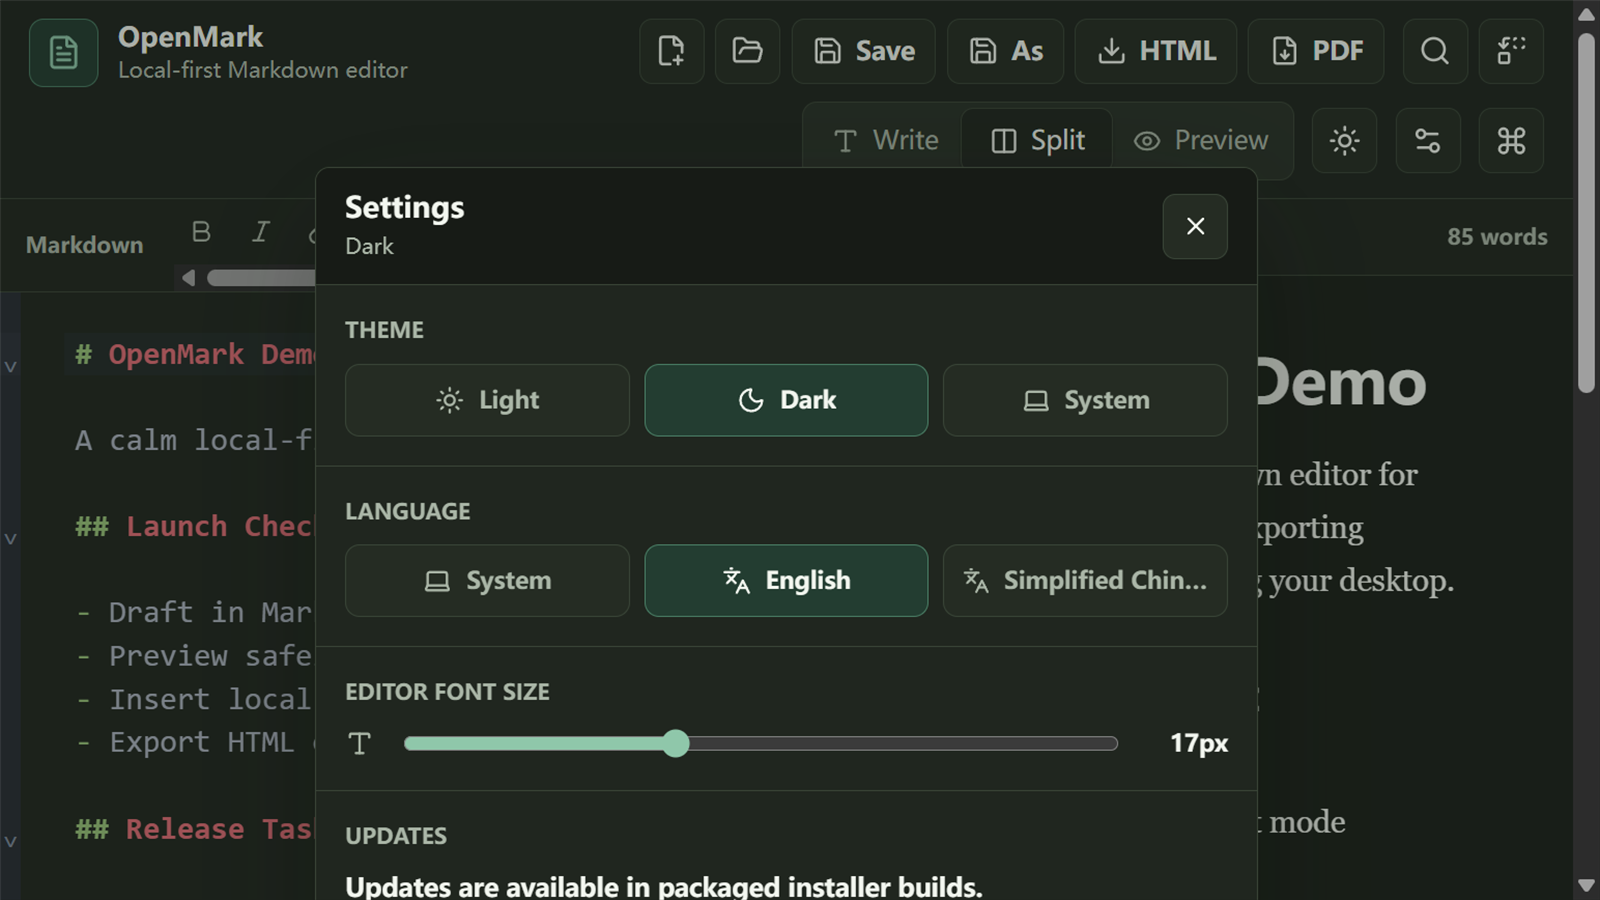
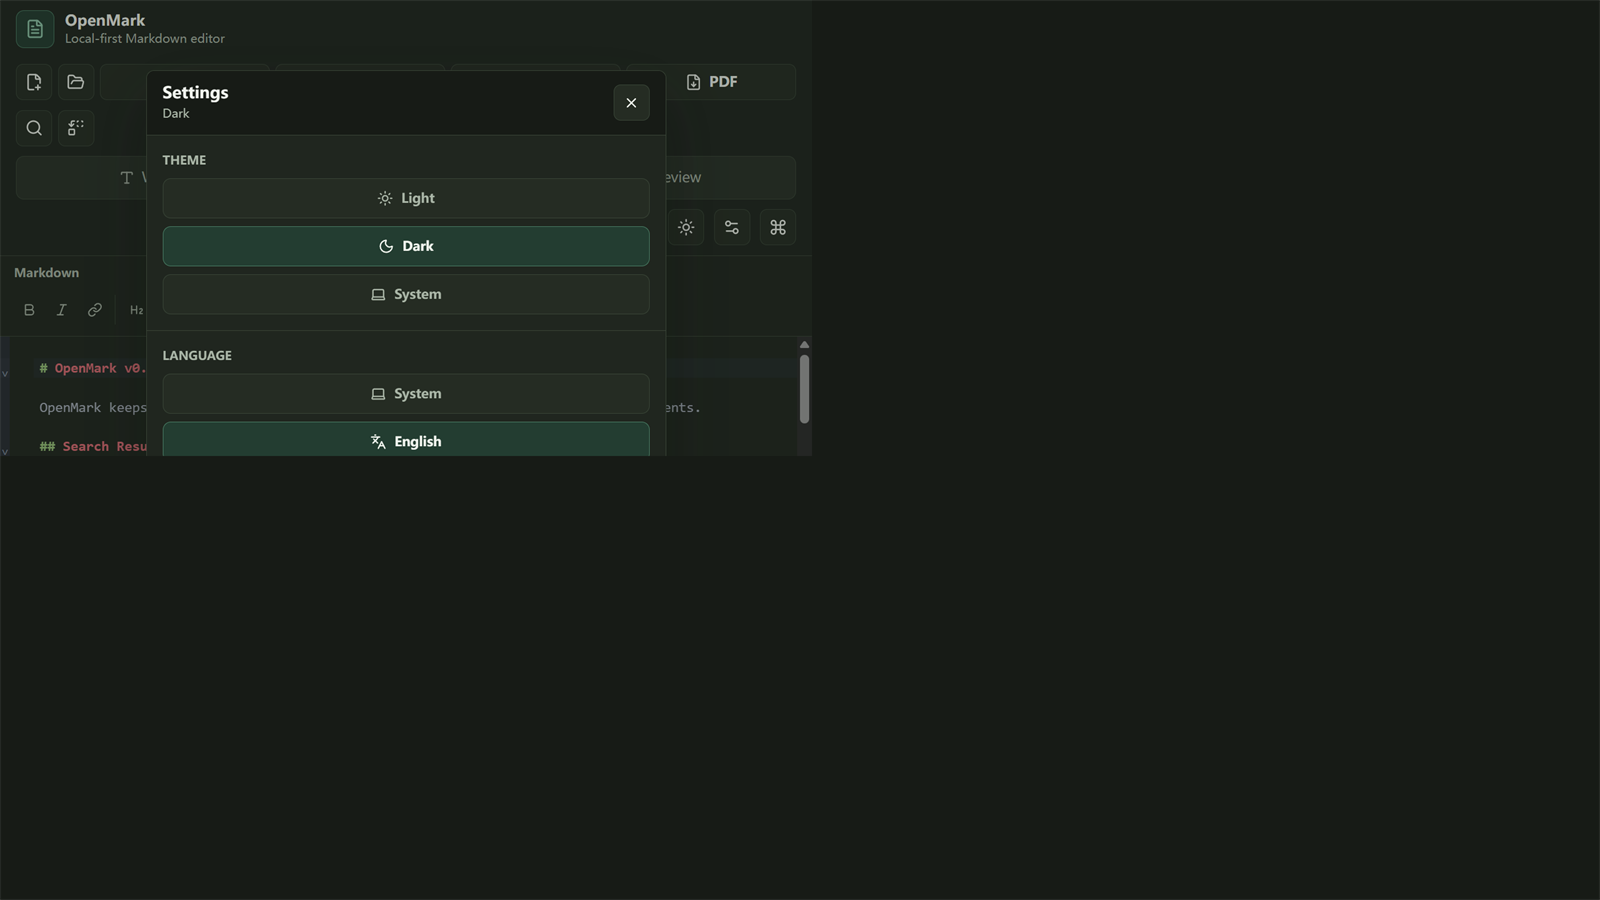
Prepare v0.5.0 release notes and screenshots

diff --git a/src/App.tsx b/src/App.tsx
@@ -220,7 +220,7 @@ const localeOptions: Array<{
 const defaultUpdateStatus: OpenMarkUpdateStatus = {
   state: 'unsupported',
   message: '',
-  version: '0.4.0',
+  version: '0.5.0',
   updateVersion: null,
   progress: null,
   canCheck: false,

diff --git a/docs/release.md b/docs/release.md
@@ -26,20 +26,20 @@ Windows artifacts are unsigned unless a signing certificate is provided through 
 
 Expected Windows artifacts:
 
-- `OpenMark.Setup.0.4.0.exe`
-- `OpenMark.0.4.0.exe`
-- `OpenMark.Setup.0.4.0.exe.blockmap`
+- `OpenMark.Setup.0.5.0.exe`
+- `OpenMark.0.5.0.exe`
+- `OpenMark.Setup.0.5.0.exe.blockmap`
 
 Expected macOS artifacts:
 
-- `OpenMark-0.4.0.dmg`
-- `OpenMark-0.4.0-arm64.dmg`
-- `OpenMark-0.4.0-mac.zip`
-- `OpenMark-0.4.0-arm64-mac.zip`
+- `OpenMark-0.5.0.dmg`
+- `OpenMark-0.5.0-arm64.dmg`
+- `OpenMark-0.5.0-mac.zip`
+- `OpenMark-0.5.0-arm64-mac.zip`
 
 Expected Linux artifacts:
 
-- `openmark-editor_0.4.0_amd64.deb`
+- `openmark-editor_0.5.0_amd64.deb`
 
 ## Automated GitHub Release
 
@@ -54,8 +54,8 @@ Release uploads include Electron auto-update metadata files such as `latest.yml`
 Push a version tag that starts with `v`:
 
 ```bash
-git tag v0.4.0
-git push origin v0.4.0
+git tag v0.5.0
+git push origin v0.5.0
 ```
 
 The workflow publishes the GitHub release automatically and asks GitHub to generate release notes.
@@ -65,9 +65,9 @@ The workflow publishes the GitHub release automatically and asks GitHub to gener
 Use the **Release** workflow from the Actions page when you need a manual build or draft release.
 
 - Leave `tag` empty to build and upload Windows, macOS, and Linux artifacts only.
-- Enter a tag like `v0.4.0` to publish a GitHub release from the workflow run. The tag is validated as semantic version style and points at the workflow commit.
+- Enter a tag like `v0.5.0` to publish a GitHub release from the workflow run. The tag is validated as semantic version style and points at the workflow commit.
 - Manual releases default to draft mode so artifacts and notes can be reviewed before publishing.
-- Enable `prerelease` for preview builds such as `v0.4.0-beta.1`.
+- Enable `prerelease` for preview builds such as `v0.5.0-beta.1`.
 
 Draft notes should start from [.github/RELEASE_TEMPLATE/release-notes.md](../.github/RELEASE_TEMPLATE/release-notes.md), then link to the [Download Guide](download.md) for package-selection details.
 

diff --git a/.github/RELEASE_TEMPLATE/release-notes.md b/.github/RELEASE_TEMPLATE/release-notes.md
@@ -2,17 +2,18 @@
 
 ## Summary
 
-- One or two sentences describing who should upgrade and why.
+OpenMark 0.5.0 focuses on navigation inside longer Markdown documents. Upgrade for search results with context, preview-to-editor heading jumps, split-view scroll synchronization, and contextual table editing controls.
 
 ## Highlights
 
-- User-facing improvement 1.
-- User-facing improvement 2.
-- User-facing improvement 3.
+- Search results now show line numbers and context snippets, and each result jumps directly to the editor selection.
+- Split mode keeps the Markdown editor and rendered preview aligned as either side scrolls.
+- Preview headings can be clicked or keyboard-activated to jump back to their source line in the editor.
+- Markdown tables can be formatted in place, with controls for adding/deleting rows and columns when the cursor is inside a table.
 
 ## Fixes
 
-- Bug fix or stability improvement.
+- Long documents now scroll inside the editor and preview panes instead of stretching the full app shell.
 
 ## Downloads
 
@@ -20,11 +21,11 @@ Choose the package for your operating system from the assets below.
 
 | Platform | Asset | Notes |
 | --- | --- | --- |
-| Windows | `OpenMark.Setup.<version>.exe` | Recommended installer. |
-| Windows | `OpenMark.<version>.exe` | Portable app. |
-| macOS Intel | `OpenMark-<version>.dmg` | Unsigned/not notarized for now. |
-| macOS Apple Silicon | `OpenMark-<version>-arm64.dmg` | Unsigned/not notarized for now. |
-| Linux Debian/Ubuntu | `openmark-editor_<version>_amd64.deb` | System package install. |
+| Windows | `OpenMark.Setup.0.5.0.exe` | Recommended installer. |
+| Windows | `OpenMark.0.5.0.exe` | Portable app. |
+| macOS Intel | `OpenMark-0.5.0.dmg` | Unsigned/not notarized for now. |
+| macOS Apple Silicon | `OpenMark-0.5.0-arm64.dmg` | Unsigned/not notarized for now. |
+| Linux Debian/Ubuntu | `openmark-editor_0.5.0_amd64.deb` | System package install. |
 
 Keep these auto-update metadata files attached when generated:
 

diff --git a/docs/download.md b/docs/download.md
@@ -12,11 +12,11 @@ Get the latest desktop build from the [GitHub Releases page](https://github.com/
 
 | Platform | Recommended package | Notes |
 | --- | --- | --- |
-| Windows | `OpenMark.Setup.0.4.0.exe` | Installer build with desktop/start menu shortcuts and update support. |
-| Windows | `OpenMark.0.4.0.exe` | Portable build for trying OpenMark without installation. |
-| macOS | `OpenMark-0.4.0.dmg` | Intel Mac disk image. Currently unsigned and not notarized. |
-| macOS | `OpenMark-0.4.0-arm64.dmg` | Apple Silicon disk image. Currently unsigned and not notarized. |
-| Linux | `openmark-editor_0.4.0_amd64.deb` | Debian/Ubuntu package managed through the system package installer. |
+| Windows | `OpenMark.Setup.0.5.0.exe` | Installer build with desktop/start menu shortcuts and update support. |
+| Windows | `OpenMark.0.5.0.exe` | Portable build for trying OpenMark without installation. |
+| macOS | `OpenMark-0.5.0.dmg` | Intel Mac disk image. Currently unsigned and not notarized. |
+| macOS | `OpenMark-0.5.0-arm64.dmg` | Apple Silicon disk image. Currently unsigned and not notarized. |
+| Linux | `openmark-editor_0.5.0_amd64.deb` | Debian/Ubuntu package managed through the system package installer. |
 
 ## Before Installing
 
@@ -48,11 +48,11 @@ Release maintainers should verify these before publishing a non-draft release:
 
 | 平台 | 推荐安装包 | 说明 |
 | --- | --- | --- |
-| Windows | `OpenMark.Setup.0.4.0.exe` | 安装版，包含桌面/开始菜单快捷方式和更新支持。 |
-| Windows | `OpenMark.0.4.0.exe` | 便携版，适合不安装直接试用。 |
-| macOS | `OpenMark-0.4.0.dmg` | Intel Mac 磁盘镜像，当前未签名、未公证。 |
-| macOS | `OpenMark-0.4.0-arm64.dmg` | Apple Silicon 磁盘镜像，当前未签名、未公证。 |
-| Linux | `openmark-editor_0.4.0_amd64.deb` | Debian/Ubuntu 安装包，通过系统包管理器安装。 |
+| Windows | `OpenMark.Setup.0.5.0.exe` | 安装版，包含桌面/开始菜单快捷方式和更新支持。 |
+| Windows | `OpenMark.0.5.0.exe` | 便携版，适合不安装直接试用。 |
+| macOS | `OpenMark-0.5.0.dmg` | Intel Mac 磁盘镜像，当前未签名、未公证。 |
+| macOS | `OpenMark-0.5.0-arm64.dmg` | Apple Silicon 磁盘镜像，当前未签名、未公证。 |
+| Linux | `openmark-editor_0.5.0_amd64.deb` | Debian/Ubuntu 安装包，通过系统包管理器安装。 |
 
 安装前请注意：
 

diff --git a/CHANGELOG.md b/CHANGELOG.md
@@ -4,6 +4,24 @@ All notable changes to OpenMark will be documented in this file.
 
 ## Unreleased
 
+## 0.5.0 - 2026-06-08
+
+### Search & Navigation
+
+- Added current-document search results with line numbers, context snippets, and click-to-jump navigation.
+- Added preview heading navigation so headings in the rendered preview can jump back to the matching editor line.
+- Added editor and preview scroll synchronization in split mode for long Markdown documents.
+
+### Table Editing
+
+- Added contextual Markdown table controls for formatting the current table.
+- Added table row controls for adding a row below the current position and deleting the current data row.
+- Added table column controls for adding a column to the right and deleting the current column.
+
+### Layout
+
+- Locked the app shell to the viewport so long documents scroll inside the editor and preview panes instead of stretching the whole page.
+
 ## 0.4.0 - 2026-06-06
 
 ### Distribution Polish

diff --git a/docs/windows-signing.md b/docs/windows-signing.md
@@ -30,8 +30,8 @@ Do not commit certificates, passwords, or generated private-key material.
 After a signed build, verify each `.exe` artifact on Windows:
 
 ```powershell
-Get-AuthenticodeSignature "release\OpenMark.Setup.0.4.0.exe" | Format-List
-Get-AuthenticodeSignature "release\OpenMark.0.4.0.exe" | Format-List
+Get-AuthenticodeSignature "release\OpenMark.Setup.0.5.0.exe" | Format-List
+Get-AuthenticodeSignature "release\OpenMark.0.5.0.exe" | Format-List
 ```
 
 Expected result for a valid signed build:

diff --git a/docs/roadmap.md b/docs/roadmap.md
@@ -48,4 +48,4 @@
 - Preview-to-editor heading navigation ✅
 - Editor and preview scroll synchronization ✅
 - Stronger table editing controls ✅
-- v0.5.0 screenshots, changelog, and release notes
+- v0.5.0 screenshots, changelog, and release notes ✅